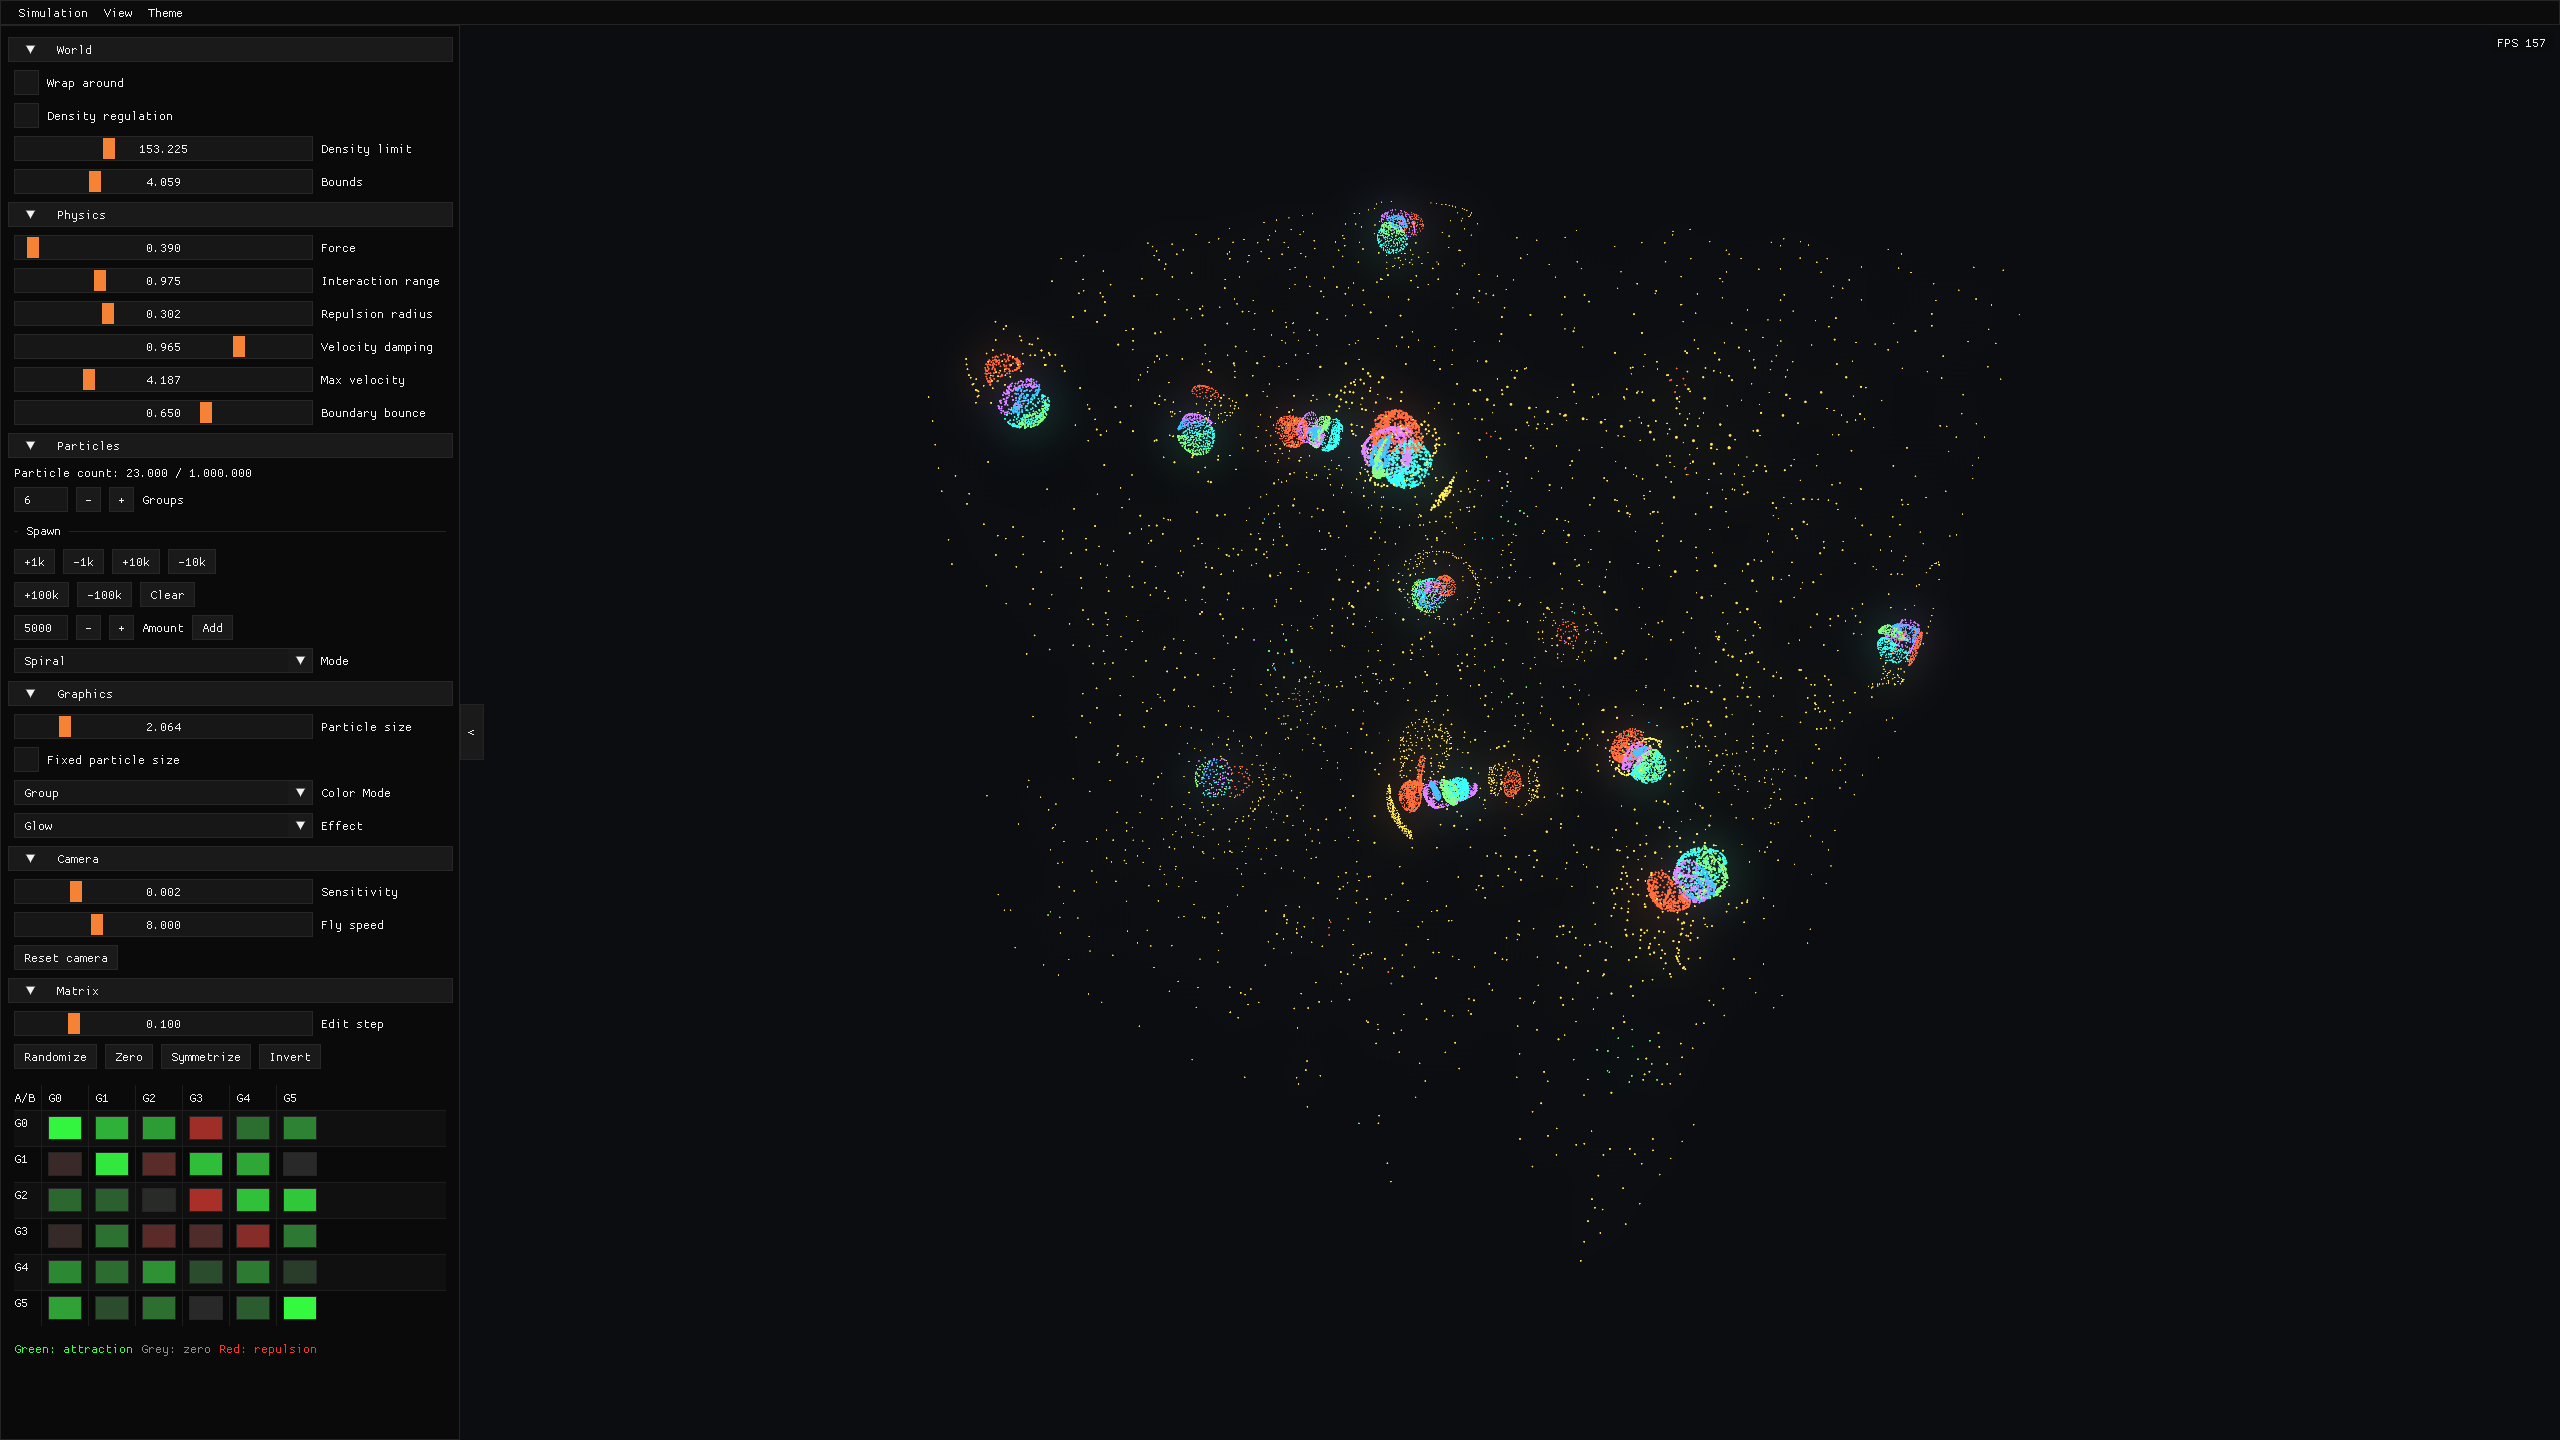
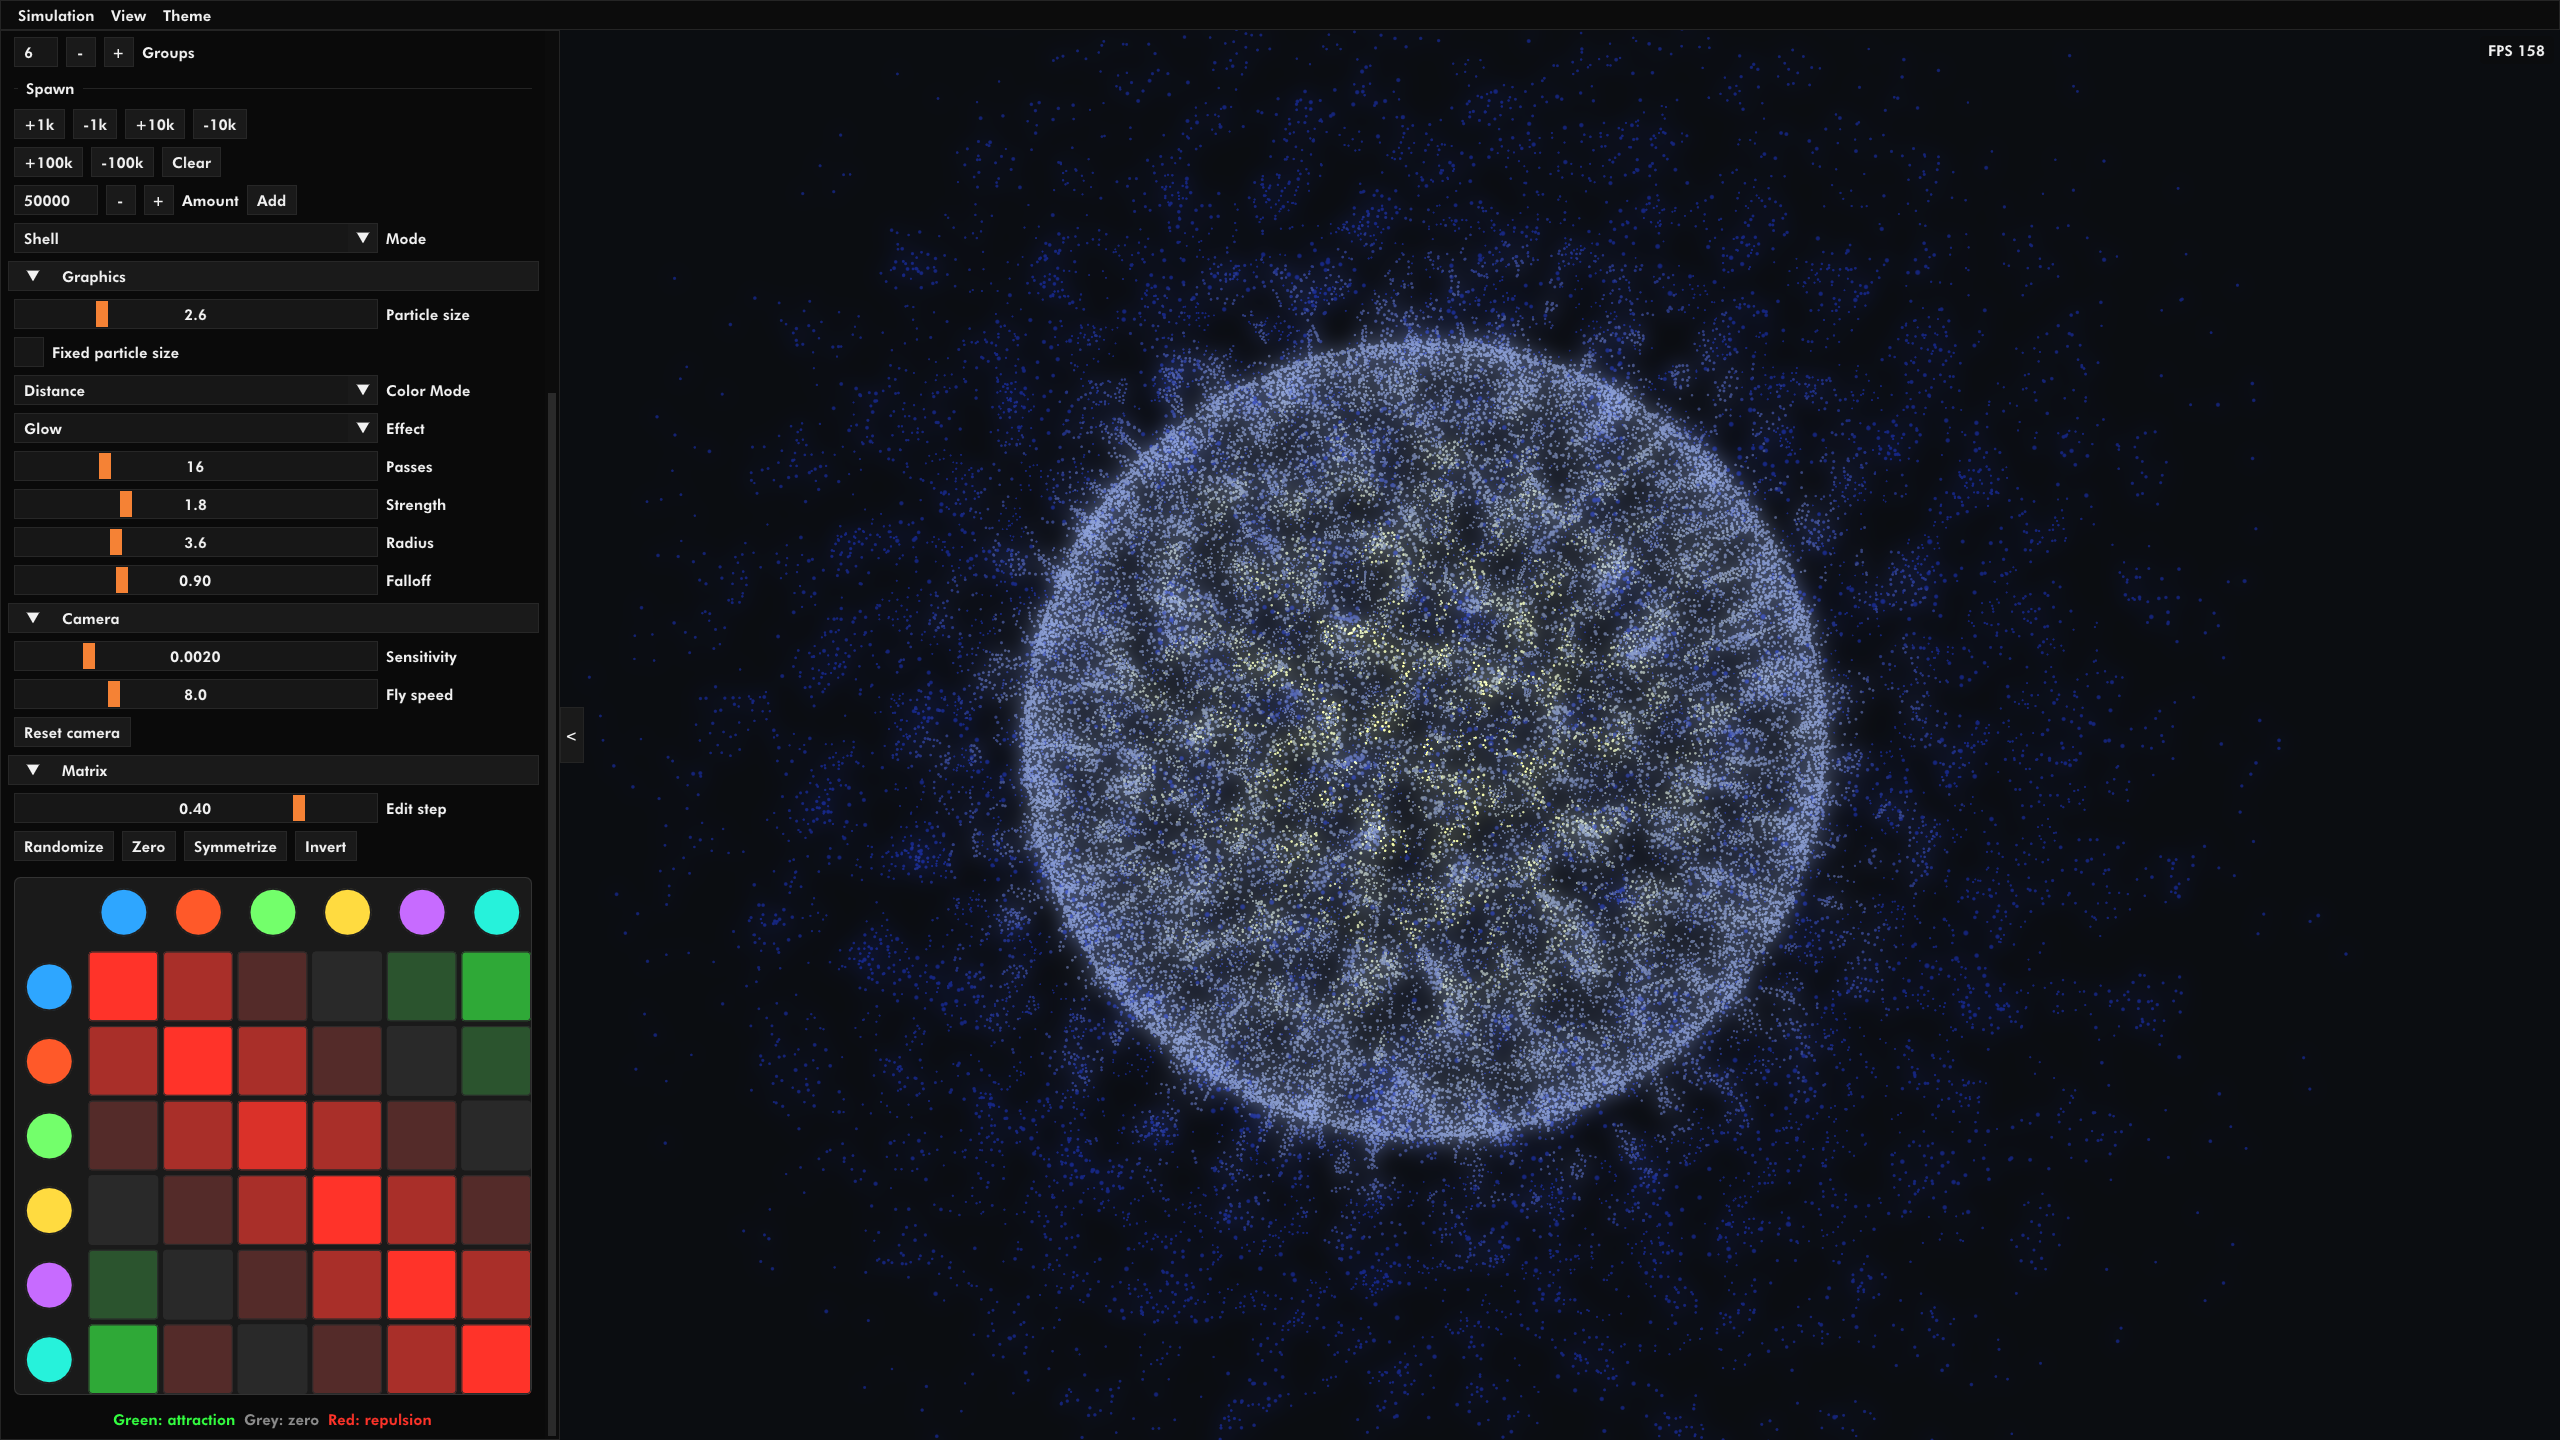
updated readme

diff --git a/README.md b/README.md
@@ -24,14 +24,7 @@ This application takes that idea into 3D. This allows for more complex and inter
 - Density regulation
 - Distance Metrics
 - Visual effects
-
-## Built With
-
-- **Java 21** as the main programming language
-- **Maven** for building and running the project
-- **OpenGL** for computing and rendering the particles
-- **imgui-java** for the settings UI
-- **JUnit 5** for automated tests
+- Preset saving/loading
 
 ## Requirements
 
@@ -51,13 +44,20 @@ The first launch may take a little longer while Maven downloads the required lib
 
 ## Controls
 
-- **Left-click**: enter free-look camera mode
+### Moving
+- **Left-click**: enter simulation focus
 - **Right-click** or **Esc**: leave simulation focus
 - **W / A / S / D**: move through the scene
 - **Shift**: move up
 - **Ctrl**: move down
+
+### Hotkeys
 - **Space**: pause or resume the simulation
+- **Left arrow**: Move one step backward
+- **Right arrow**: Move one step forward
+- **F**: hide ui
 - **R**: reset the particles
+- **F11**: toggle fullscreen
 - **Home**: reset the camera
 
 ## Experimenting